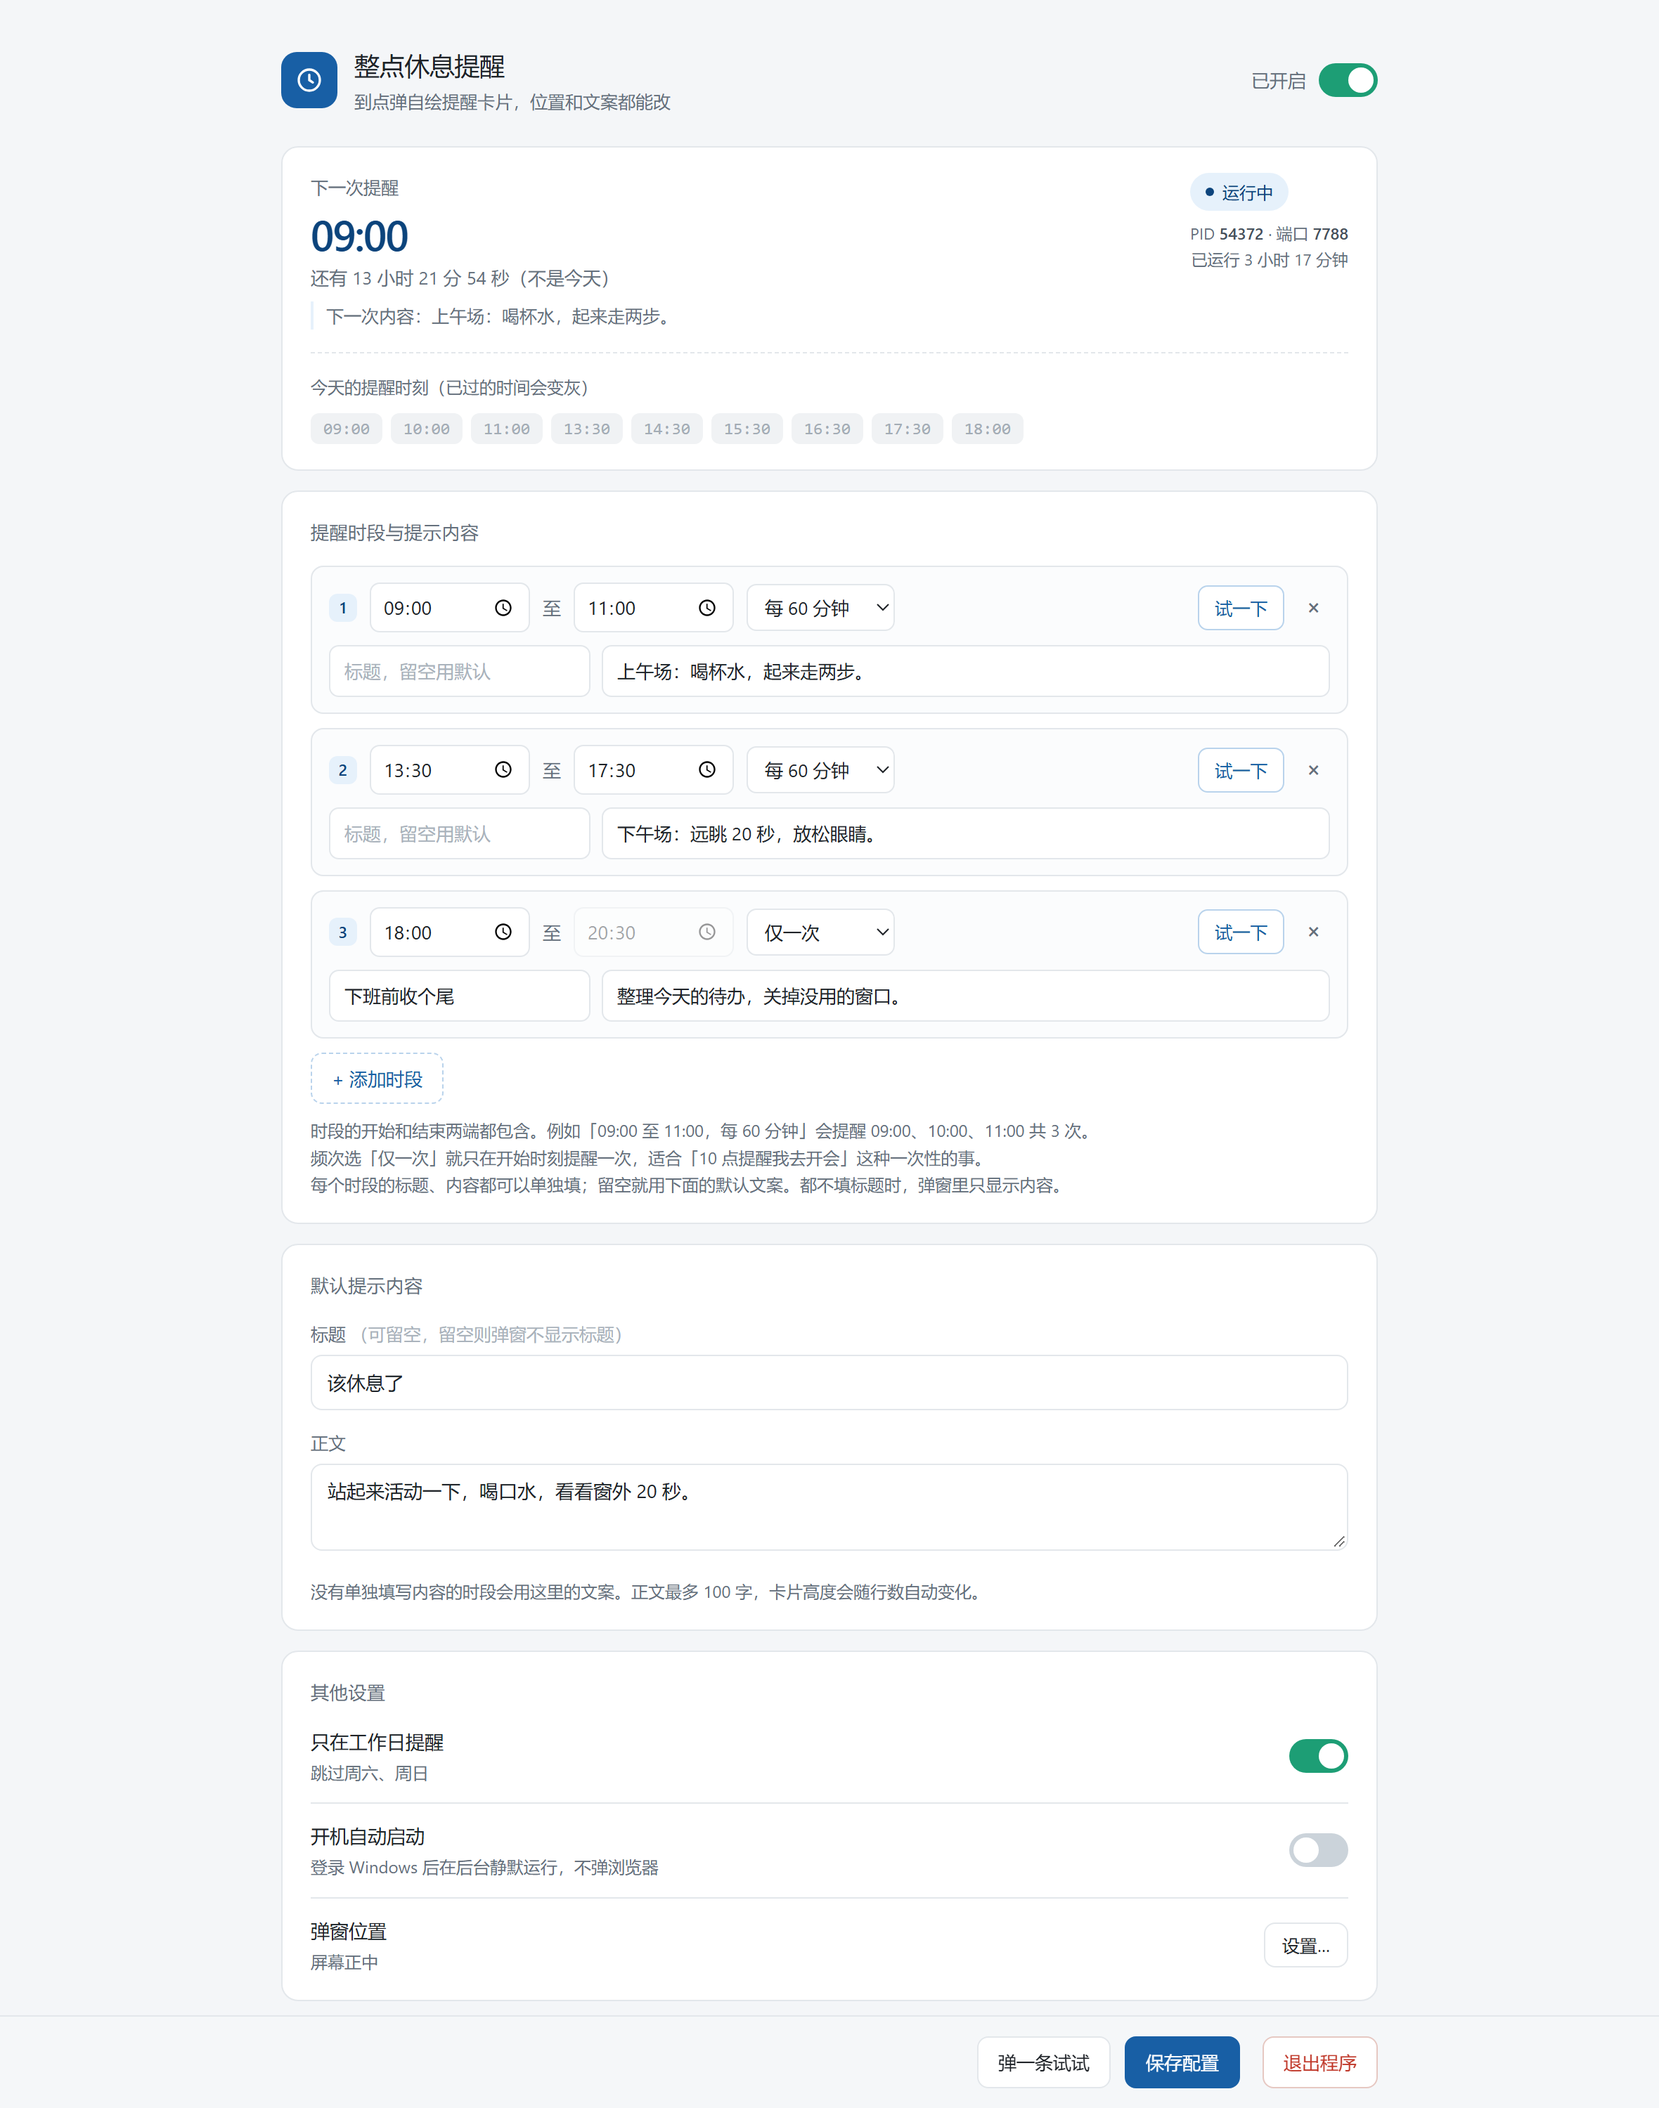
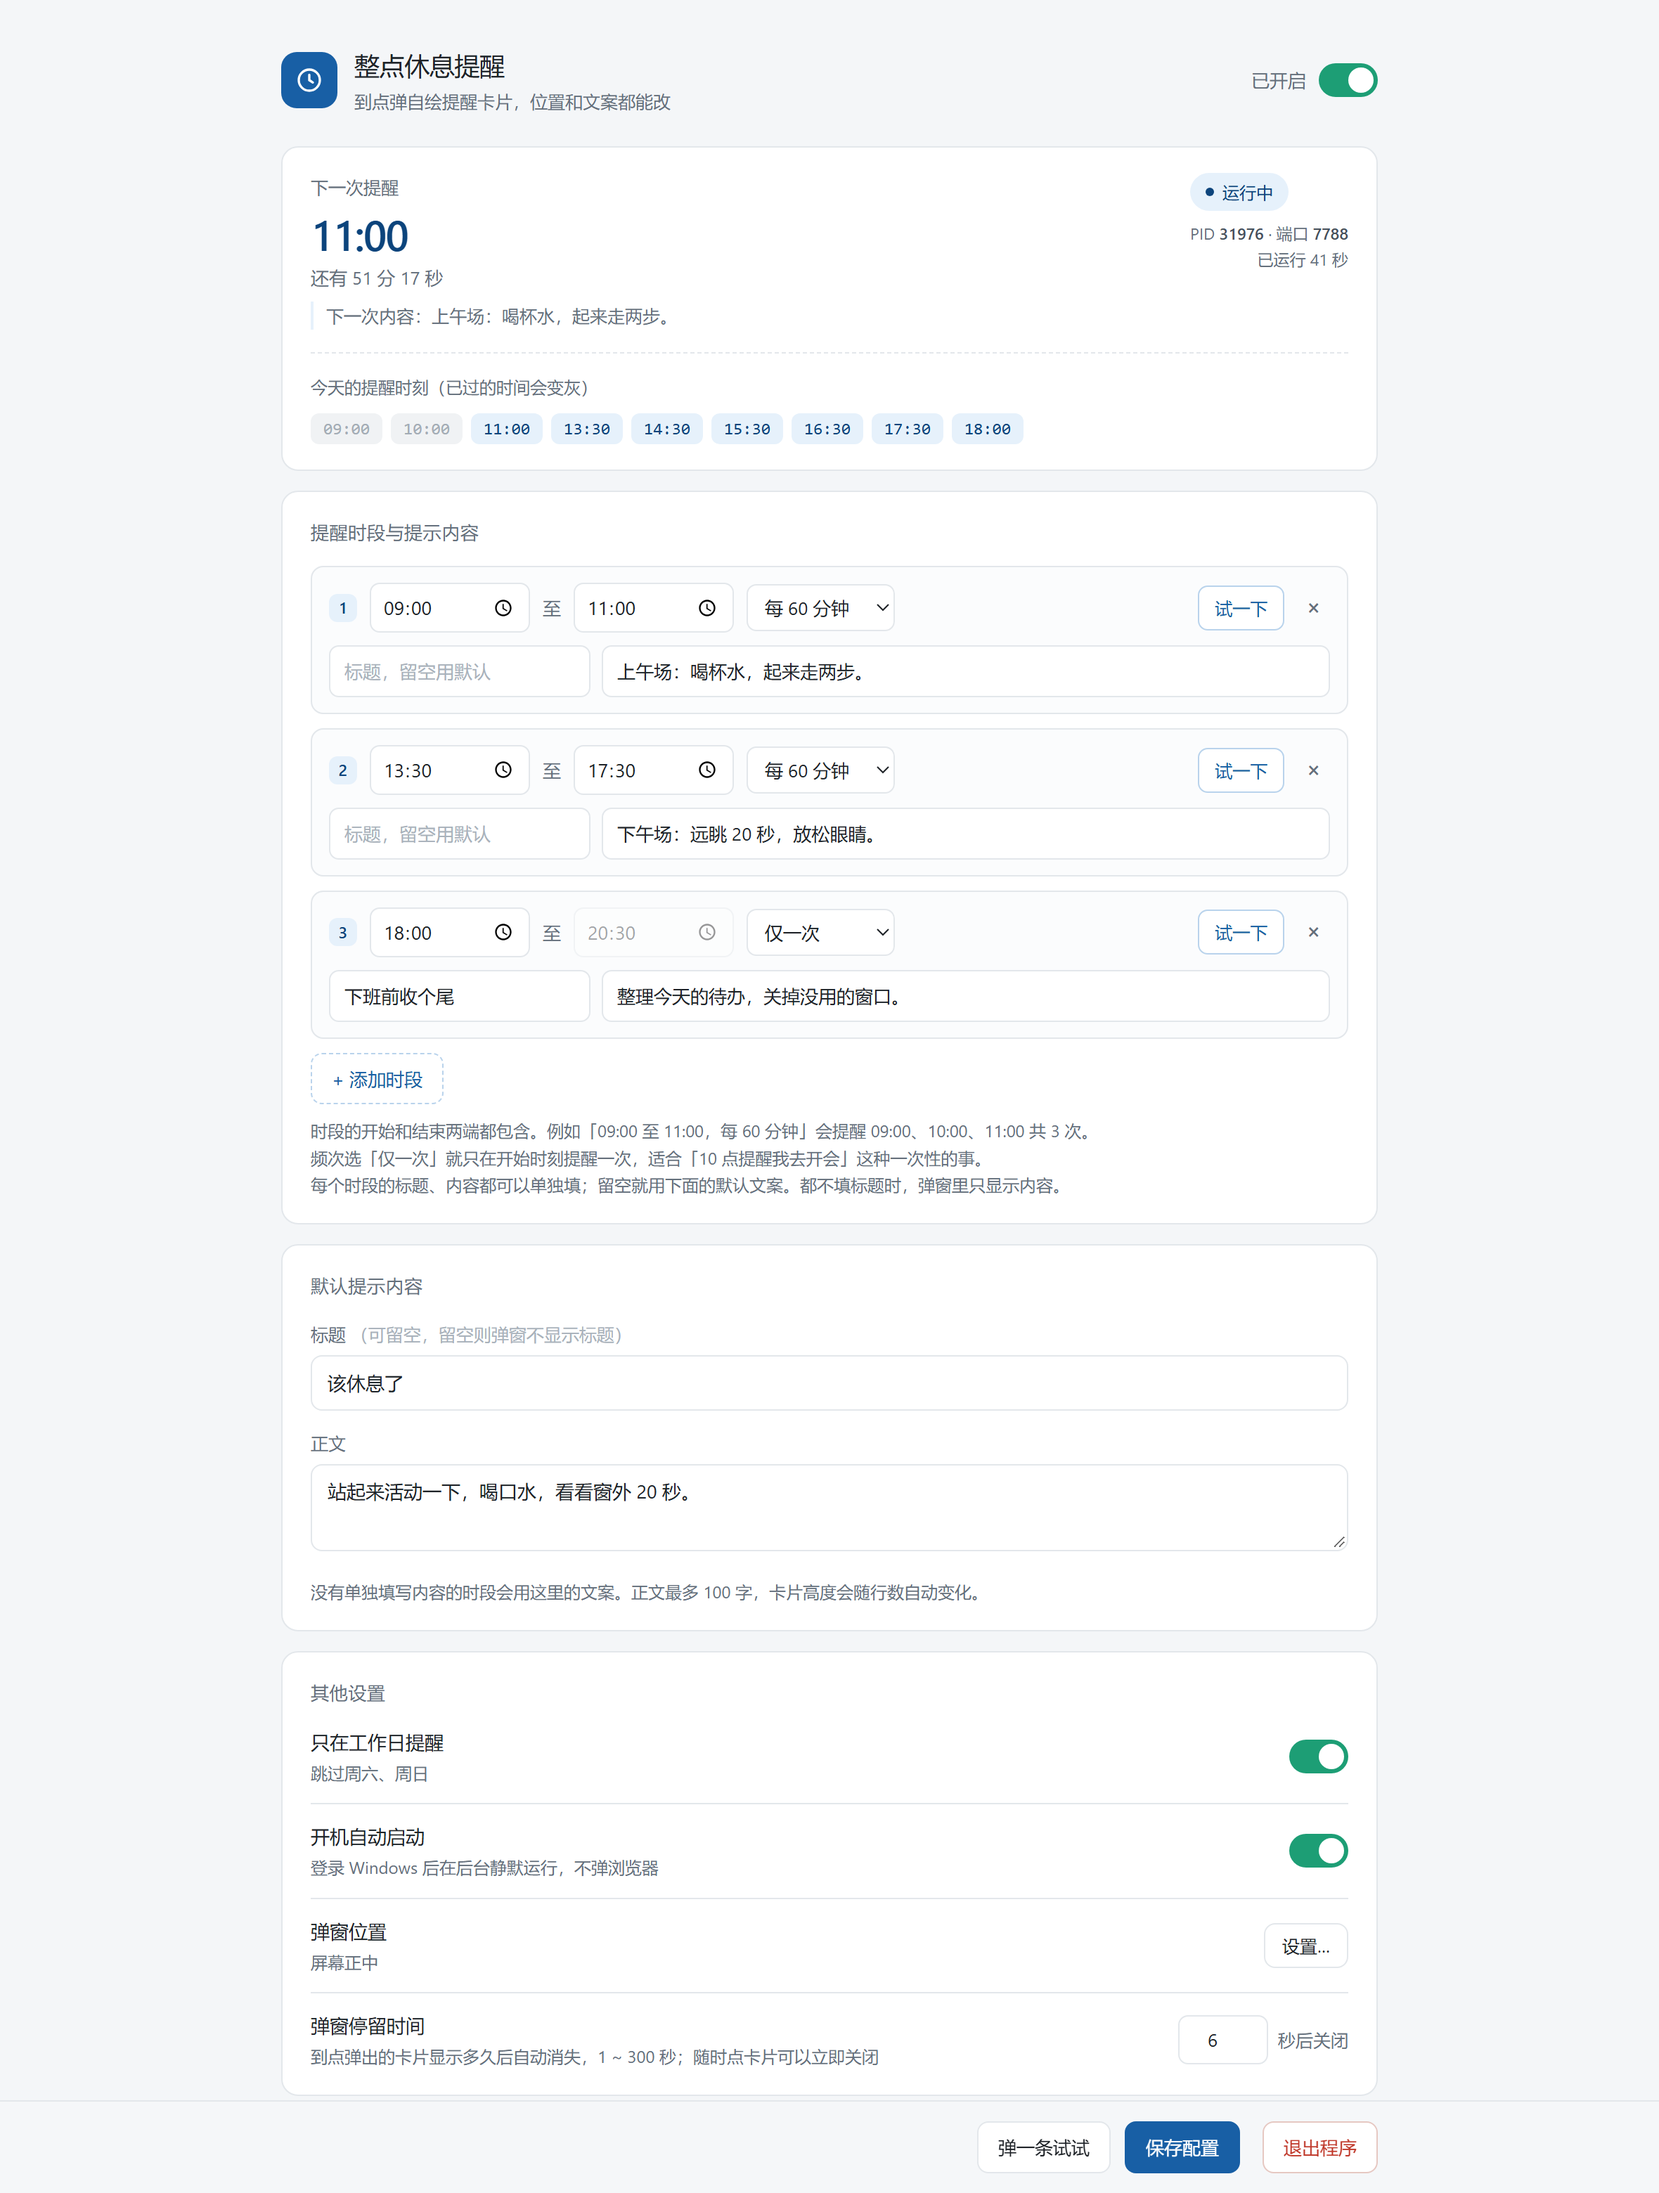
feat: 弹窗停留时间可配置（1~300 秒，默认 6 秒）
- Config 新增 closeAfter 字段，Normalize 把缺省/0 补成 6，Validate 拦住 >300
- notify/showPopup 带上关闭秒数，SetTimer 的时长改由配置决定
- 页面「其他设置」新增「弹窗停留时间」一行，change 时把输入夹回 1~300
- 补 TestCloseAfter：0 和负数回落默认值、上限拒绝、常用值放行
- README 与配置页截图同步更新

diff --git a/web/index.html b/web/index.html
@@ -199,6 +199,13 @@ textarea{min-height:62px;line-height:1.55}
 .opt-txt{flex:1;min-width:0}
 .opt-name{font-size:13.5px}
 .opt-desc{font-size:12px;color:var(--muted);margin-top:2px;line-height:1.55}
+.num-wrap{display:flex;align-items:center;gap:7px;flex:0 0 auto}
+.num{
+  width:64px;font:inherit;font-size:13px;padding:6px 4px;text-align:center;
+  border:1px solid var(--border);border-radius:7px;background:#fff;color:var(--text);
+}
+.num:focus{outline:none;border-color:var(--accent);box-shadow:0 0 0 3px var(--accent-soft)}
+.num-unit{font-size:12.5px;color:var(--muted);white-space:nowrap}
 .hint{font-size:12px;color:var(--muted);margin-top:9px;line-height:1.6}
 
 /* ---- 弹窗 ---- */
@@ -335,6 +342,17 @@ textarea{min-height:62px;line-height:1.55}
         <div class="opt-desc" id="posDesc">屏幕正中</div>
       </div>
       <button class="btn sm" id="posBtn" type="button">设置…</button>
+    </div>
+
+    <div class="opt-row">
+      <div class="opt-txt">
+        <div class="opt-name">弹窗停留时间</div>
+        <div class="opt-desc">到点弹出的卡片显示多久后自动消失，1 ~ 300 秒；随时点卡片可以立即关闭</div>
+      </div>
+      <div class="num-wrap">
+        <input class="num" id="closeAfter" type="number" min="1" max="300" step="1" inputmode="numeric" aria-label="弹窗停留秒数">
+        <span class="num-unit">秒后关闭</span>
+      </div>
     </div>
   </section>
 
@@ -631,6 +649,7 @@ textarea{min-height:62px;line-height:1.55}
     $('message').value = c.message || '';
     $('weekdaysOnly').checked = !!c.weekdaysOnly;
     $('autoStart').checked = !!c.autoStart;
+    $('closeAfter').value = c.closeAfter || 6;
     if (!c.position) c.position = 'center';
     syncPosCells();
     renderWins();
@@ -644,6 +663,8 @@ textarea{min-height:62px;line-height:1.55}
     c.message = $('message').value.trim();
     c.weekdaysOnly = $('weekdaysOnly').checked;
     c.position = state.cfg.position || 'center';
+    var sec = parseInt($('closeAfter').value, 10);
+    c.closeAfter = (isNaN(sec) || sec < 1) ? 6 : sec;
     return c;
   }
 
@@ -784,6 +805,13 @@ textarea{min-height:62px;line-height:1.55}
       return;
     }
     say(want ? '已设置开机自动启动（下次登录 Windows 时生效）' : '已关闭开机自动启动', 'ok');
+  });
+
+  $('closeAfter').addEventListener('change', function(){
+    // 顺手把离谱的输入夹回来，省得保存时再弹一句错误
+    var n = parseInt(this.value, 10);
+    if (isNaN(n)) n = 6;
+    this.value = Math.max(1, Math.min(300, n));
   });
 
   (async function init(){

diff --git a/notify_windows.go b/notify_windows.go
@@ -105,8 +105,6 @@ const (
 
 	translucent = 1 // SetBkMode(TRANSPARENT)
 
-	autoCloseMs = 6000
-
 	// ---- 版式，全部是 96dpi 下的逻辑像素，实际尺寸乘 DPI 缩放 ----
 	cardW      = 340.0 // 卡片宽
 	cardH      = 96.0  // 卡片默认高度（实际按文字量自适应）
@@ -202,9 +200,10 @@ type blendFunction struct {
 }
 
 type popupReq struct {
-	title, msg string
-	position   string
-	done       chan error
+	title, msg  string
+	position    string
+	closeAfterS int // 停留秒数，<=0 用默认值
+	done        chan error
 }
 
 var (
@@ -241,17 +240,22 @@ func rgb(r, g, b uint32) uintptr {
 
 // notify 把请求丢给常驻的 UI 线程，等窗口创建成功就算发送完成（不等用户关闭）。
 // position 决定卡片停在工作区的哪个位置，空字符串等价于屏幕正中。
+// closeAfterS 是卡片停留几秒后自动关闭（<=0 时用默认值）。
 //
-// 如果上一条还在屏幕上，先把它关掉——否则新提醒要排队等 6 秒自动关闭，
+// 如果上一条还在屏幕上，先把它关掉——否则新提醒要排队等上一条自己消失，
 // 连点两次「试一下」就会觉得卡住。
-func notify(title, msg, position string) error {
+func notify(title, msg, position string, closeAfterS int) error {
 	uiOnce.Do(func() { go uiThread() })
 
 	if h := atomic.LoadUintptr(&curHwnd); h != 0 {
 		pPostMessageW.Call(h, wmClose, 0, 0)
 	}
 
-	req := popupReq{title: title, msg: msg, position: position, done: make(chan error, 1)}
+	req := popupReq{
+		title: title, msg: msg,
+		position: position, closeAfterS: closeAfterS,
+		done: make(chan error, 1),
+	}
 	select {
 	case uiCh <- req:
 	default:
@@ -278,7 +282,7 @@ func uiThread() {
 	registerClass()
 
 	for req := range uiCh {
-		req.done <- showPopup(req.title, req.msg, req.position)
+		req.done <- showPopup(req.title, req.msg, req.position, req.closeAfterS)
 		messageLoop() // 阻塞到窗口被销毁
 	}
 }
@@ -296,7 +300,7 @@ func registerClass() {
 	pRegisterClassExW.Call(uintptr(unsafe.Pointer(&wc)))
 }
 
-func showPopup(title, msg, position string) error {
+func showPopup(title, msg, position string, closeAfterS int) error {
 	curTitle, curMsg = title, msg
 	l := layoutFor(curScale, title, msg)
 
@@ -320,7 +324,13 @@ func showPopup(title, msg, position string) error {
 		return perr
 	}
 
-	pSetTimer.Call(hwnd, 1, autoCloseMs, 0)
+	// 停留时长由配置决定；<=0 时退回默认值（配置层 Normalize 已经兜过一层，
+	// 这里是给 -preview / 内部调用留的保险）。
+	ms := uintptr(closeAfterS) * 1000
+	if closeAfterS <= 0 {
+		ms = uintptr(defaultCloseAfter) * 1000
+	}
+	pSetTimer.Call(hwnd, 1, ms, 0)
 	atomic.StoreUintptr(&curHwnd, uintptr(hwnd))
 	pShowWindow.Call(hwnd, swShowNoActiv) // 不激活，不抢焦点
 	return nil

diff --git a/config.go b/config.go
@@ -18,6 +18,14 @@ const (
 
 	// 标题的字数上限。标题是单行且尾部省略，太长没意义。
 	maxTitleRunes = 40
+
+	// 弹窗自动关闭的默认秒数，也是老配置（没有 closeAfter 字段）的兜底值。
+	defaultCloseAfter = 6
+
+	// 自动关闭秒数的上下限。下限 1 秒：配 0 没有意义，只会让人以为没弹出来；
+	// 上限 5 分钟：再长就不叫「弹一下」了，关不掉会挡着屏幕。
+	minCloseAfter = 1
+	maxCloseAfter = 300
 )
 
 // 弹窗可以停靠的位置。都是相对「工作区」而言的（工作区已排除任务栏）。
@@ -72,6 +80,7 @@ type Config struct {
 	Title        string       `json:"title"`        // 默认通知标题，留空 = 弹窗不显示标题
 	Message      string       `json:"message"`      // 默认通知正文
 	Position     string       `json:"position"`     // 弹窗位置，见 PosXxx 常量
+	CloseAfter   int          `json:"closeAfter"`   // 弹窗停留几秒后自动关闭（秒）
 	Port         int          `json:"port"`         // 配置页面端口
 	Windows      []WorkWindow `json:"windows"`      // 工作时段列表
 }
@@ -85,6 +94,7 @@ func DefaultConfig() Config {
 		Title:        "该休息了",
 		Message:      "站起来活动一下，喝口水，看看窗外 20 秒。",
 		Position:     PosCenter,
+		CloseAfter:   defaultCloseAfter,
 		Port:         defaultPort,
 		Windows: []WorkWindow{
 			{Start: "09:00", End: "11:00", Interval: 60},
@@ -114,6 +124,11 @@ func (c *Config) Normalize() {
 	if !validPositions[c.Position] {
 		c.Position = PosCenter
 	}
+	// 老配置文件里没有 closeAfter 字段（解出来是 0），补成默认秒数；
+	// 页面传 0 或负数也按同一逻辑处理，不用弹一堆「不能是 0」的错误。
+	if c.CloseAfter <= 0 {
+		c.CloseAfter = defaultCloseAfter
+	}
 	// 标题故意不给默认值：留空就是「弹窗顶部不显示标题」，
 	// 有些人的提醒只要一句话就够，硬塞一个「该休息了」反而多余。
 	c.Title = strings.TrimSpace(c.Title)
@@ -133,6 +148,10 @@ func (c *Config) Normalize() {
 func (c Config) Validate() error {
 	if !validPositions[c.Position] {
 		return fmt.Errorf("弹窗位置「%s」无效", c.Position)
+	}
+	// 0 / 负数已经在 Normalize 里补成默认值了，这里只拦「长得离谱」的。
+	if c.CloseAfter > maxCloseAfter {
+		return fmt.Errorf("弹窗停留时间最多 %d 秒", maxCloseAfter)
 	}
 	if n := utf8.RuneCountInString(strings.TrimSpace(c.Title)); n > maxTitleRunes {
 		return fmt.Errorf("默认标题有 %d 个字，超过上限 %d 个字", n, maxTitleRunes)

diff --git a/schedule_test.go b/schedule_test.go
@@ -165,6 +165,33 @@ func TestNormalizeLegacyConfig(t *testing.T) {
 	if c.Windows == nil {
 		t.Fatal("Windows 应被初始化为空切片而非 nil")
 	}
+	// closeAfter 也是后加的字段，老配置解出来是 0，应补成默认 6 秒
+	if c.CloseAfter != defaultCloseAfter {
+		t.Fatalf("缺省停留秒数 = %d，期望 %d", c.CloseAfter, defaultCloseAfter)
+	}
+}
+
+// 弹窗停留秒数：0 / 负数补默认值，超上限报错，正常值原样保留。
+func TestCloseAfter(t *testing.T) {
+	for _, in := range []int{0, -3} {
+		c := Config{CloseAfter: in}
+		c.Normalize()
+		if c.CloseAfter != defaultCloseAfter {
+			t.Fatalf("Normalize(%d) = %d，期望 %d", in, c.CloseAfter, defaultCloseAfter)
+		}
+	}
+
+	c := Config{Title: "t", Message: "m", Position: PosCenter, Windows: []WorkWindow{}}
+	for _, sec := range []int{1, 6, 30, maxCloseAfter} {
+		c.CloseAfter = sec
+		if err := c.Validate(); err != nil {
+			t.Fatalf("停留 %d 秒不该报错：%v", sec, err)
+		}
+	}
+	c.CloseAfter = maxCloseAfter + 1
+	if err := c.Validate(); err == nil {
+		t.Fatalf("停留 %d 秒应被拒绝", c.CloseAfter)
+	}
 }
 
 // 间隔填 0 表示「仅一次」：只在时段开始那一刻提醒，之后到结束都不再提醒。

diff --git a/main.go b/main.go
@@ -162,7 +162,7 @@ func main() {
 		// 这里在桌面上弹一张卡片作为即时反馈，顺带验证弹窗通道本身是通的。
 		if cfg.Enabled {
 			if next, _, ok := NextReminder(cfg, time.Now()); ok {
-				if err := notify("提醒已启动", "下次提醒 "+next.Format("15:04"), cfg.Position); err != nil {
+				if err := notify("提醒已启动", "下次提醒 "+next.Format("15:04"), cfg.Position, cfg.CloseAfter); err != nil {
 					log.Printf("启动提示卡片没能弹出来：%v", err)
 				}
 			}
@@ -419,7 +419,7 @@ func handleTest(store *Store) http.HandlerFunc {
 			pos = cfg.Position
 		}
 
-		if err := notify(title, msg, pos); err != nil {
+		if err := notify(title, msg, pos, cfg.CloseAfter); err != nil {
 			log.Printf("测试通知失败：%v", err)
 			writeJSON(w, http.StatusInternalServerError, map[string]string{"error": err.Error()})
 			return

diff --git a/schedule.go b/schedule.go
@@ -180,7 +180,7 @@ func RunScheduler(store *Store) {
 			if now.Sub(next) <= catchUpWindow {
 				title := win.ResolveTitle(cfg.Title)
 				msg := win.ResolveMessage(cfg.Message)
-				if err := notify(title, msg, cfg.Position); err != nil {
+				if err := notify(title, msg, cfg.Position, cfg.CloseAfter); err != nil {
 					log.Printf("通知发送失败：%v", err)
 				} else {
 					log.Printf("已提醒：%s（计划时刻 %s）", msg, next.Format("15:04"))

diff --git a/notify_other.go b/notify_other.go
@@ -5,7 +5,7 @@ package main
 import "fmt"
 
 // 非 Windows 平台降级成终端输出，保证项目在 macOS / Linux 上也能编译运行。
-func notify(title, msg, _ string) error {
+func notify(title, msg, _ string, _ int) error {
 	fmt.Printf("\a[提醒] %s — %s\n", title, msg)
 	return nil
 }
